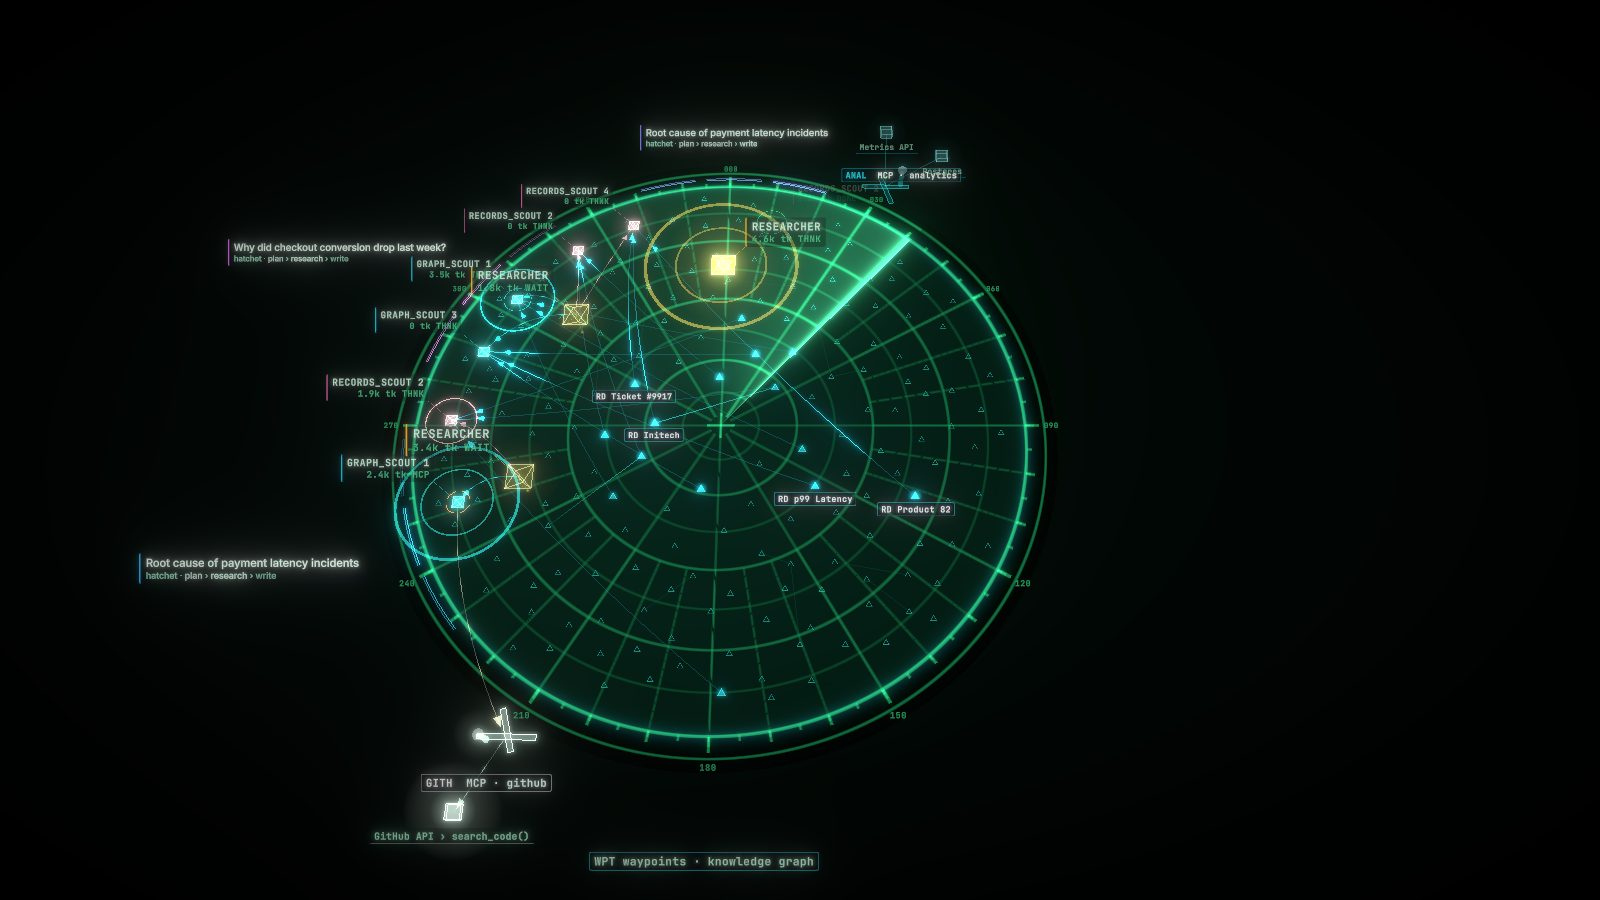
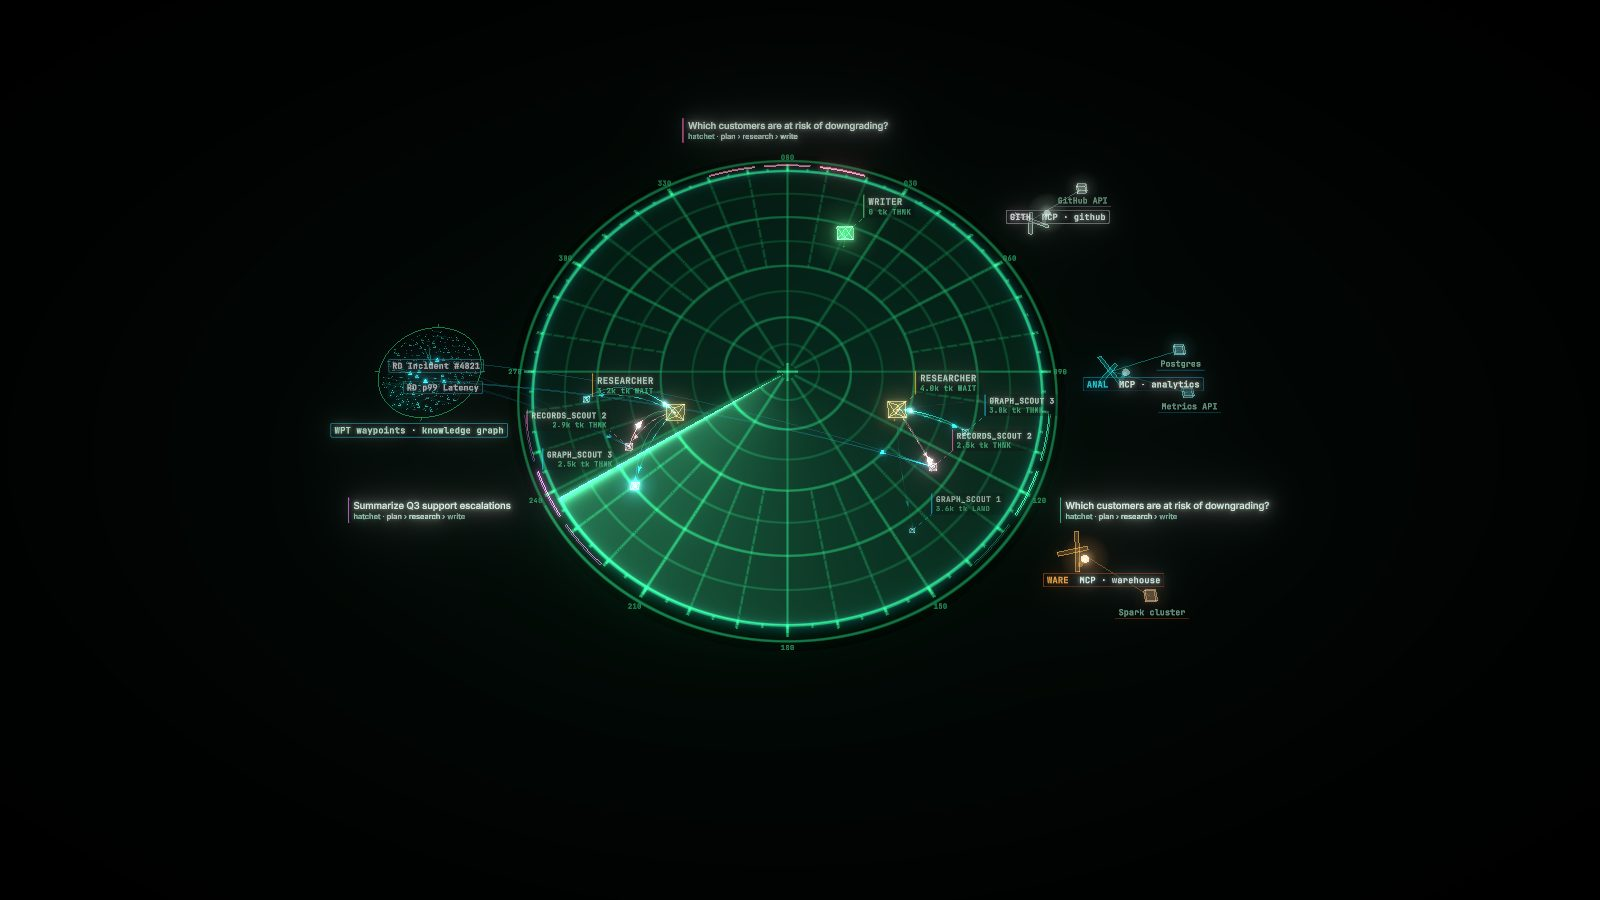
README + PyPI/npm READMEs: new layout rules, fresh media (hero + 15 themes)

Changed region(s): [[0.0625, 0.1244, 0.8125, 0.9644], [0.3438, 0.9333, 0.5312, 0.9956]]

diff --git a/README.md b/README.md
@@ -73,10 +73,14 @@ Works in Next.js App Router out of the box (the package is `"use client"`). See 
 |---|---|
 | agents / subagents | shapes that spawn, think, wait and exit - subagents smaller, linked to their parent with directional edges |
 | LLM calls | pulses sized by tokens |
-| tool & MCP calls | MCP server + its backends (Postgres, Snowflake, Spark…) light up, with data-flow arrows |
-| DB / graph queries (`db.system`) | knowledge-graph nodes light up on reads and writes (live from FalkorDB if configured) |
+| tool & MCP calls | MCP server + its backends (Postgres, Snowflake, Spark…) appear at the side when first called, with data-flow arrows; idle ones fade away |
+| DB / graph queries (`db.system`) | a knowledge graph appears at the side once agents read or write it (real nodes from FalkorDB if configured) |
 | handoffs | agents chained with a message along the edge |
 | Hatchet workflow runs | runs and their step-by-step progress |
+
+**Agents are always the center.** Graphs, databases and MCP servers are side resources that only show up when used, and the camera
+frames everything calmly: one smooth zoom per burst of spawns, never a jittery in-and-out. Stats sit in a slim top bar;
+agents, events and the selected agent live in a collapsible right sidebar.
 
 **Hundreds of agents?** Above 12 live agents, AgentGlow auto-groups older runs into glowing clusters
 ("35 runs · 84 agents") and keeps the newest ~10 in full detail - click a cluster to expand it. Stays at ~60 fps with 500 live agents.

diff --git a/backend/README.md b/backend/README.md
@@ -46,7 +46,7 @@ LangChain instrumentation and Hatchet instrumentation when those packages are in
 | LLM span (OpenInference `LLM`, `gen_ai.operation.name=chat`) | "thinking" + a pulse sized by tokens |
 | Tool span | a tool event on the owning agent |
 | `mcp.server.name` / `agentglow.mcp.server` (+ `agentglow.mcp.resource`, `agentglow.mcp.resource_kind`) | an MCP satellite with a live tether while the call is pending |
-| `db.system` (+ `agentglow.graph.nodes`, `agentglow.db.op`) | graph read/write flares |
+| `db.system` (+ `agentglow.graph.nodes`, `agentglow.db.op`) | graph read/write flares on a side knowledge graph, shown only once used |
 | Hatchet step run (`hatchet.workflow_run_id`, `hatchet.step_name`) or `agentglow.step` | run lanes and steps |
 
 Optional attributes you can set on your own spans: `agentglow.agent` (mark a span as an agent, value = name),
@@ -74,6 +74,9 @@ agentglow serve [--host 0.0.0.0] [--port 8100] [--falkor redis://localhost:6379/
 Embed in your own React app: `npm i agentglow` → `<AgentScene theme="neural" source="http://localhost:8100" />`.
 
 ## Scale
+
+Agents are always centered; graph and MCP servers are side resources that appear only when used. The camera batches
+spawns into one smooth zoom.
 
 Above 12 live agents the scenes auto-group older runs into clickable clusters and keep the newest ~10 in full
 detail (~60 fps with 500 live agents).

diff --git a/frontend/README.md b/frontend/README.md
@@ -115,6 +115,12 @@ A cross-origin `source` requires the server to send CORS headers for `/live/*`.
 | ![city](https://raw.githubusercontent.com/Nideesh1/agentglow/main/docs/media/city.jpg) **city** | ![ocean](https://raw.githubusercontent.com/Nideesh1/agentglow/main/docs/media/ocean.jpg) **ocean** | ![subway](https://raw.githubusercontent.com/Nideesh1/agentglow/main/docs/media/subway.jpg) **subway** |
 | ![circuit](https://raw.githubusercontent.com/Nideesh1/agentglow/main/docs/media/circuit.jpg) **circuit** | ![tunnel](https://raw.githubusercontent.com/Nideesh1/agentglow/main/docs/media/tunnel.jpg) **tunnel** | ![flow](https://raw.githubusercontent.com/Nideesh1/agentglow/main/docs/media/flow.jpg) **flow** |
 
+## Layout
+
+Agents are always the center of the scene; the knowledge graph and MCP servers appear at the side only when used. Stats
+sit in a slim top bar and agents/events/selection in a collapsible right sidebar (a thin rail in small embeds). The
+camera fits the free area and batches spawns into one smooth zoom.
+
 ## Many agents
 
 Above 12 live agents, older runs auto-group into clickable glowing clusters and the newest ~10 stay in full
